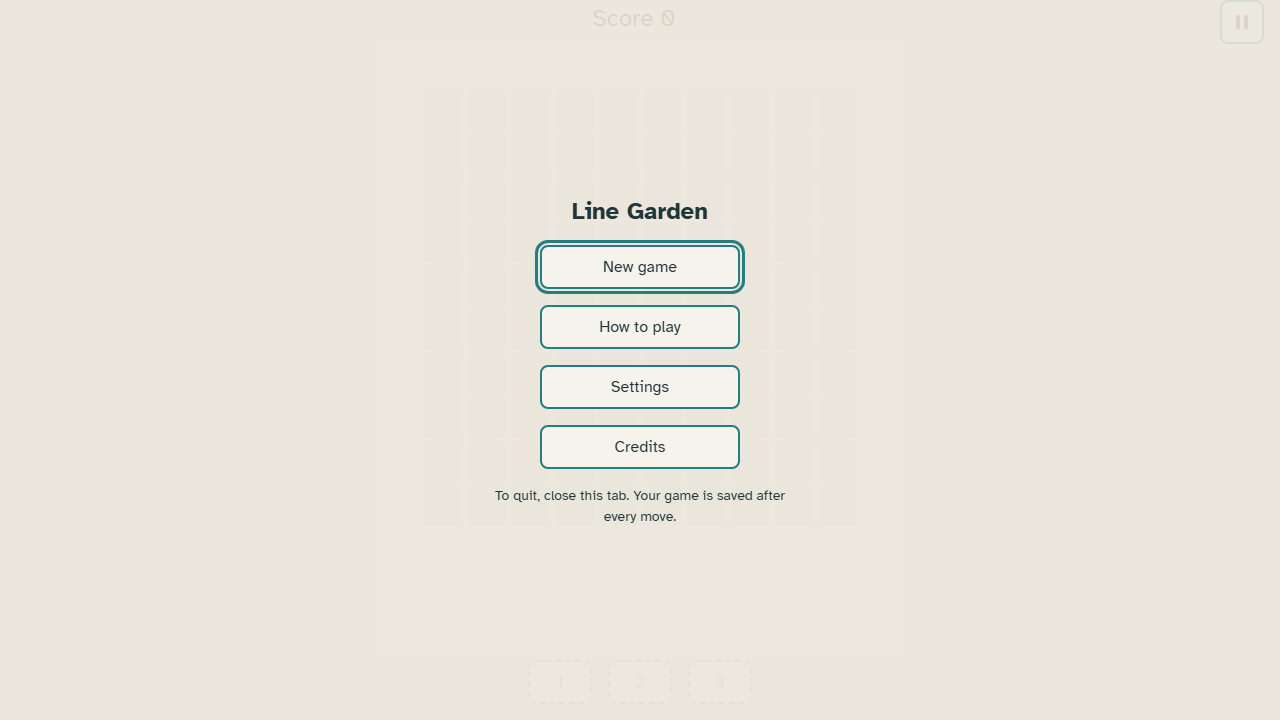
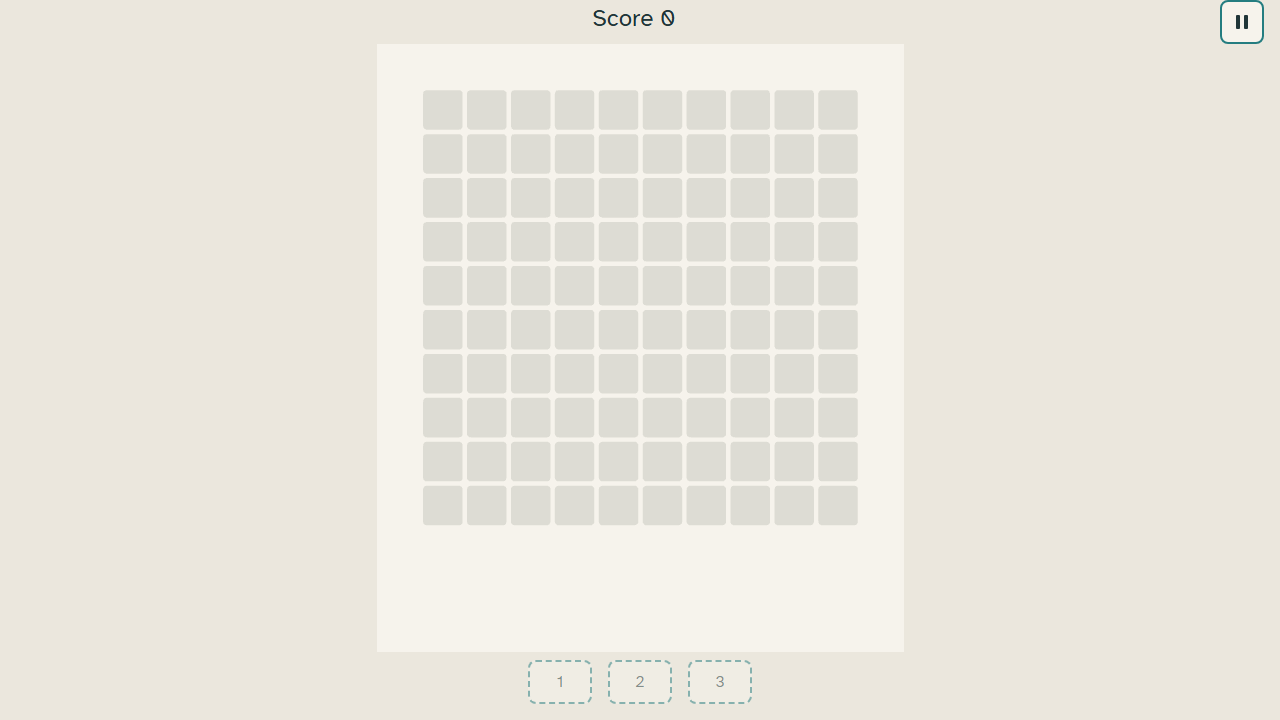
T23: Fix tray showing the previous game's pieces after a new game
GameView redrew a tray slot only when the piece instance number
changed, but every run numbers its pieces from the start, so after New
game, Restart or Play again the tray kept the old shapes. Key slots by
session id and instance.

diff --git a/src/adapters/pixi/game-view.ts b/src/adapters/pixi/game-view.ts
@@ -13,7 +13,8 @@ const INSET_PER_PITCH = 3 / 60;
 export class GameView {
   readonly container = new Container();
   readonly #cells: Graphics[] = [];
-  readonly #slots: { instanceId: number | null; graphics: Graphics }[];
+  /** `key` is session + instance: every run numbers its pieces from the start, so the instance alone is not unique. */
+  readonly #slots: { key: string | null; graphics: Graphics }[];
   readonly #ghost = new Graphics();
   readonly #floating = new Graphics();
   /** Cleared tiles fading out over the committed (already cleared) board. */
@@ -45,7 +46,7 @@ export class GameView {
         this.container.addChild(cell);
       }
     this.container.addChild(this.#fading);
-    this.#slots = tray.slots.map(() => ({ instanceId: null, graphics: this.container.addChild(new Graphics()) }));
+    this.#slots = tray.slots.map(() => ({ key: null, graphics: this.container.addChild(new Graphics()) }));
     // Ghost above the floating piece: the same-color ghost leaves the piece unchanged, and the invalid cross and
     // line outlines stay visible even when the piece sits right over them.
     this.container.addChild(this.#floating, this.#ghost);
@@ -141,25 +142,25 @@ export class GameView {
     this.#palette = palette;
     this.#ghostKey = '';
     this.#floatingShape = null;
-    for (const slot of this.#slots) slot.instanceId = -1; // forces a redraw with the new tile color
+    for (const slot of this.#slots) slot.key = 'repaint'; // forces a redraw with the new tile color
     if (this.#shown) this.update(this.#shown);
   }
 
   update(state: SessionState): void {
     this.#shown = state;
     this.#updateBoard(state.board);
-    state.tray.forEach((slot, i) => this.#updateSlot(i, slot));
+    state.tray.forEach((slot, i) => this.#updateSlot(i, slot, state.sessionId));
   }
 
   #updateBoard(board: BoardState): void {
     board.cells.forEach((key, i) => (this.#cells[i]!.tint = key === null ? this.#palette.emptyCell : this.#color(key)));
   }
 
-  #updateSlot(index: number, slot: SlotInstance | null): void {
+  #updateSlot(index: number, slot: SlotInstance | null, sessionId: string): void {
     const view = this.#slots[index]!;
-    const instanceId = slot?.instanceId ?? null;
-    if (view.instanceId === instanceId) return;
-    view.instanceId = instanceId;
+    const key = slot ? `${sessionId}/${slot.instanceId}` : null;
+    if (view.key === key) return;
+    view.key = key;
     view.graphics.clear();
     if (!slot) return;
     const shape = this.config.catalog.find((s) => s.id === slot.shapeId)!;

diff --git a/docs/handoffs/T23.md b/docs/handoffs/T23.md
@@ -16,6 +16,10 @@
 
 Scope: `game-view.ts`, `main.ts` and `selection.ts` are outside the listed scope (feedback, focus); they are the smallest wiring for the glide and the rejection cue.
 
+## Bug fixed (found by Amit while testing T23)
+
+The tray could show the previous game's pieces after New game, Restart or Play again in the same page load. `GameView` redrew a slot only when its piece instance number changed, and every run numbers its pieces from the start, so the new run's pieces 0–2 looked unchanged. Slots are now keyed by session id plus instance (`game-view.ts`). The bug had been there since T18. A repro script showed the canvas tray matching the slot labels across three restarts after the fix (it did not before).
+
 ## Accessibility checklist
 
 | Item | State |
